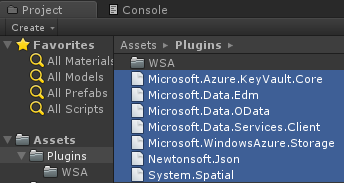
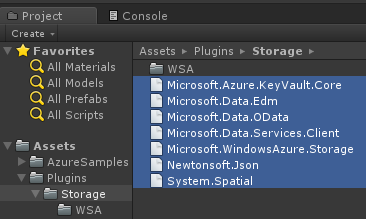
Adding EventHubs and MobileApps SDKs

diff --git a/sandbox/gamedev/unity/azure-event-hubs-unity.md b/sandbox/gamedev/unity/azure-event-hubs-unity.md
@@ -1,0 +1,130 @@
+---
+title: Azure Event Hubs SDK for Unity
+description: Azure Event Hubs SDK for Unity
+author: dgkanatsios
+keywords: unity, azure, eventhubs
+ms.topic: article
+ms.date: 26/11/2017
+ms.author: Dimitris-Ilias Gkanatsios
+#ms.devlang: 
+#ms.prod:
+#ms.technology:
+#ms.service:
+---
+# Azure Event Hubs SDK for Unity
+
+[!include[](../../includes/header.md)]
+
+> [!IMPORTANT]
+> This is an experimental Unity SDK for Azure Event Hubs.  As such, please note that this SDK is not supported and is not provided by the Azure Event Hubs team.  If you run into problems, please let us know using the [GitHub Issues](https://github.com/BrianPeek/AzureSamples-Unity) page for this fork.
+
+[![Get the source](../../media/buttons/source2.png)](https://github.com/Azure/azure-event-hubs-dotnet)
+[![Try it now](../../media/buttons/try2.png)](https://aka.ms/azeventhubs-unitysdk)
+
+## Azure Event Hubs for Gaming
+
+Azure Event Hubs is a real-time custom event ingestion service that can collect and store millions of events per second. Events can then be analyzed in real-time using [Azure Stream Analytics](https://azure.microsoft.com/en-us/services/stream-analytics/) or stored to [Azure Storage](https://azure.microsoft.com/en-us/services/storage/) or [Azure Data Lake Store](https://azure.microsoft.com/en-us/services/data-lake-store/) for processing at a later time. Analysis of this data could reveal various insights about player's performance/behavior during the game as well as be utilized in creation of other types of metrics (e.g. daily/weekly/monthly active users, churn, user sessions, transactions etc.).
+
+## Requirements
+
+* [Unity 2017.1 (or greater)](https://unity3d.com/)
+  * Unity 2017.1 includes a new scripting runtime that supports .NET 4.6.  This feature allows us to use the existing Azure SDKs with some tweaks.  Please see [this blog post from Unity](https://blogs.unity3d.com/2017/07/11/introducing-unity-2017/) for more information.
+* [An Azure Event Hubs account (Sign up for free!)](https://aka.ms/azfreegamedev)
+
+## Compatibility
+
+This has been tested with the following Unity exporters.  Others may work -- we haven't tested every platform, so please let us know if you've had success!
+
+* Windows Standalone
+* Mac Standalone (with Unity 2017.2.0p3)
+* Android (Mono)
+* Unity Editor
+* iOS (the `link.xml` file in the `Assets` sample folder works around an IL2CPP issue dealing with [bytecode stripping](https://docs.unity3d.com/Manual/IL2CPP-BytecodeStripping.html))
+
+## Known Issues and Limitations
+
+There are a few known issues and workarounds.
+
+### Unity and SSL support
+
+> [!WARNING]
+> Due to a Unity limitation, HTTPS requests using the standard .NET networking stack (i.e. not using UnityWebRequest) will fail due to Mono's empty certificate store. To workaround this, you will need to modify the **ServicePointManager.CertificatePolicy** with a custom CertificatePolicy which will accept all certificates as shown.
+>
+>**This means that data transfer will happen in an insecure manner.**
+
+```csharp
+    public class CustomCertificatePolicy : ICertificatePolicy
+    {
+        public bool CheckValidationResult(ServicePoint sp,
+            X509Certificate certificate, WebRequest request, int error)
+        {
+            return true;
+        }
+    }
+
+    //...
+
+    ServicePointManager.CertificatePolicy = new CustomCertificatePolicy();
+```
+
+### iOS Builds
+
+If you hit the [known issue](https://issuetracker.unity3d.com/issues/ios-il2cpp-il2cpp-error-for-method-system-dot-void-system-dot-data-dot-constraintcollection-clear-crashes-whiled-building-for-ios) where Unity iOS exports fail with an error of:
+
+```text
+IL2CPP error for method 'System.Void System.Data.ConstraintCollection::Clear()'
+```
+
+...please update to Unity 2017.3, 2017.2.0p2, or 2017.1.1p2 (or higher).
+
+[!include[](include/uwp-known-issues.md)]
+
+### Other Platforms
+
+We have not had success in compiling or running games using the following platforms:
+
+* Android (IL2CPP)
+* WebGL - System.Threading is used in Event Hubs DLLs and Unity WebGL does not support this
+
+We will continue working on these and update the documentation as soon as we find fixes.
+
+## Import the SDK
+
+To import the SDK into your own project, make sure you have downloaded the latest [.unitypackage](https://aka.ms/azeventhubs-unitysdk) from GitHub.  Then, do the following:
+
+[!include[](include/unity-import.md)]
+
+Please refer to the [Azure Event Hubs Docs](https://docs.microsoft.com/en-us/azure/event-hubs/) for even more samples and tutorials on using the API.
+
+## Try the Sample
+
+To use the sample, you will need to have an Azure Event Hubs account with a valid Event Hubs connection string. You'll also need to create an event hub on this account. You can check the Event Hubs documentation [here](https://docs.microsoft.com/en-us/azure/event-hubs/event-hubs-create) to understand how to complete this task.
+
+To use the sample, do the following:
+
+1. Download the [Unity sample project](https://github.com/BrianPeek/AzureSamples-Unity) from GitHub (or import it from the .unitypackage and continue to step 4).
+
+1. Unzip to a location on your hard drive.
+
+1. Open Unity 2017.1 (or greater) and point it to the **EventHubs** directory inside the unzipped package.
+
+1. In the **Project** window, double-click the **EventHub** scene inside the **Sample** directory to open the main scene for the sample.
+
+1. In this scene, select the **EventHubsObject** item in the **Hierarchy** window.
+
+1. With **EventHubsObject** selected, you'll notice that there are two blank entries in the **Inspector** window, called **Eh Connection String** and **Eh Entity Path**. Fill in these entries with your own Event Hubs connection string and Event Hub name, respectively. You can find them both in the Azure Portal as shown below.
+
+   ![Event Hubs connection string in Azure Portal](../media/event-hubs-connectionstring.png)
+
+   ![Creating an Event Hub in Azure Portal](../media/event-hubs-name.png)
+
+1. Run the project from within the Unity Editor by clicking the **Play** button.  Alternatively, you can export to the platform of your choosing and run there.
+
+1. To test that the events you are sending are correctly arriving to your Event Hubs account, you can use [Event Hubs capture](https://docs.microsoft.com/en-us/azure/event-hubs/event-hubs-capture-enable-through-portal) and monitor your Storage/Data Lake Store account. Alternatively, you can create a simple .NET console app with a class that implements the **IEventProcessor** interface, like the one described [here](https://docs.microsoft.com/en-us/azure/event-hubs/event-hubs-dotnet-standard-getstarted-receive-eph).
+
+## Next Steps
+
+* [Azure Event Hubs Docs](https://docs.microsoft.com/en-us/azure/event-hubs/)
+* [Event Hubs as input to Azure Stream Analytics](https://docs.microsoft.com/en-us/azure/stream-analytics/stream-analytics-define-inputs)
+* [Capture Event Hubs data to Azure Storage or Azure Data Lake Store](https://docs.microsoft.com/en-us/azure/event-hubs/event-hubs-capture-enable-through-portal)
+* [Azure Data Lake Store documentation](https://docs.microsoft.com/en-us/azure/data-lake-store/)

diff --git a/sandbox/gamedev/unity/azure-mobile-apps-unity.md b/sandbox/gamedev/unity/azure-mobile-apps-unity.md
@@ -1,0 +1,105 @@
+---
+title: Azure Mobile Apps SDK for Unity
+description: Azure Mobile Apps SDK for Unity
+author: BrianPeek
+manager: timheuer
+keywords: unity, azure, Mobile Apps
+ms.topic: article
+ms.date: 11/29/2017
+ms.author: brpeek
+#ms.devlang: 
+#ms.prod:
+#ms.technology:
+#ms.service:
+---
+# Azure Mobile Apps SDK for Unity
+
+[!include[](../../includes/header.md)]
+
+> [!IMPORTANT]
+> This is an experimental Unity SDK for Azure Mobile Apps.  As such, please note that this SDK is not supported and is not provided by the Azure Mobile Apps team.  If you run into problems, please let us know using the [GitHub Issues](https://github.com/BrianPeek/AzureSamples-Unity/issues) page for this fork.
+
+[![Get the source](../../media/buttons/source2.png)](https://github.com/BrianPeek/AzureSamples-Unity)
+[![Try it now](../../media/buttons/try2.png)](https://aka.ms/azmobile-unitysdk)
+
+## Azure Mobile Apps for Gaming
+
+[Azure Mobile Apps](https://docs.microsoft.com/azure/app-service-mobile/) contains a variety of features for building cross-platform mobile titles.  This SDK currently supports working with Easy Tables.  [Easy Tables](https://docs.microsoft.com/azure/app-service-mobile/app-service-mobile-dotnet-how-to-use-client-library) are a great way to read, write, and query data in a simple table format.  While more features exist in the service, they are not yet supported by this SDK, but will be evaluated for future releases.
+
+## Requirements
+
+* [Unity 2017.1 (or greater)](https://unity3d.com/)
+  * Unity 2017.1 includes a new scripting runtime that supports .NET 4.6.  This feature allows us to use the existing Azure SDKs with some tweaks.  Please see [this blog post from Unity](https://blogs.unity3d.com/2017/07/11/introducing-unity-2017/) for more information.
+* [An Azure Mobile Apps account (Sign up for free!)](https://aka.ms/azfreegamedev)
+
+## Compatibility
+
+This has been tested with the following Unity exporters.  Others may work -- we haven't tested every platform, so please let us know if you've had success!
+
+* Windows standalone
+* iOS
+* Android (Mono)
+* Unity editor
+
+## Known Issues and Limitations
+
+There are a few known issues and workarounds.
+
+### Unity and SSL support
+
+Due to a Unity limitation, HTTPS requests using the standard .NET networking stack (i.e. not using UnityWebRequest) will fail.  To workaround this, you will need to use the **http** version of the Mobile Apps endpoint instead of **https**.  **This means your data will not be encrypted to and from the server.**  Here's an example:
+
+```text
+http://mymobileapp.azurewebsites.net/
+```
+
+[!include[](include/uwp-known-issues.md)]
+
+### Other Platforms
+
+We have not had success in compiling or running games using the following platforms:
+
+* Android (IL2CPP)
+* UWP (.NET)
+* UWP (IL2CPP)
+* WebGL
+
+We will continue working on these and update as we find fixes.
+
+## Import the SDK
+
+To import the SDK into your own project, make sure you have downloaded the latest [.unitypackage](https://aka.ms/azmobile-unitysdk) from GitHub.  Then, do the following:
+
+<!--[!include[](include/unity-import.md)]-->
+
+Please refer to the [Azure Mobile Apps Docs](https://aka.ms/azgamedev) for even more samples and tutorials on using the API.
+
+## Try the Sample
+
+To use the sample, you will need to have an Azure Mobile Apps account setup along with a valid connection string.  You can learn more about that [here](https://docs.microsoft.com/en-us/azure/MobileApps/common/MobileApps-create-MobileApps-account).
+
+To use the sample, do the following:
+
+1. Download the [Unity sample project](https://github.com/BrianPeek/AzureSamples-Unity) from GitHub (or import it from the .unitypackage and continue to step 4).
+
+1. Unzip to a location on your hard drive.
+
+1. Open Unity 2017.1 (or greater) and point it to the **MobileApps** directory inside the unzipped package.
+
+1. In the **Project** window, double-click the **AzureMobileApps** scene inside the **Assets\AzureSamples\MobileApps** directory to open the main scene for the sample.
+
+1. In this scene, select the **MobileAppsObject** item in the **Hierarchy** window.
+
+1. With **MobileAppsObject** selected, you'll notice that there is a blank entry named **Mobile App Uri** in the **Inspector** window.  Fill in this entry with the valid URI as shown on the Azure portal, but remember to change the endpoint to use **http** as described above.  The URI will be **http://&lt;yourAppName&gt;.azurewebsites.net/**.
+
+   ![Azure Mobile Apps Keys in Azure Porta](../media/mobile-apps-uri.png)
+
+1. Run the project from within the editor by clicking the **Play** button.  Alternatively, you can export to the platform of your choosing and run there.
+
+1. At this point, you can click the button for any of the four Mobile Apps types and watch the output window.  If things are setup and working, you will see the sample test a standard workflow.
+
+The code for the sample is broken out into four separate scripts, one for each Mobile Apps type.  Take a look at each to learn more about how it works.
+
+## Next Steps
+
+* [Azure Mobile Apps Docs](https://aka.ms/azMobileAppsdocsgamedev)

diff --git a/sandbox/gamedev/unity/azure-storage-unity.md b/sandbox/gamedev/unity/azure-storage-unity.md
@@ -20,7 +20,7 @@ ms.author: brpeek
 > This is an experimental Unity SDK for Azure Storage.  As such, please note that this SDK is not supported and is not provided by the Azure Storage team.  If you run into problems, please let us know using the [GitHub Issues](https://github.com/BrianPeek/azure-storage-net/issues) page for this fork.
 
 [![Get the source](../../media/buttons/source2.png)](https://github.com/BrianPeek/azure-storage-net/tree/gamedev)
-[![Try it now](../../media/buttons/try2.png)](https://github.com/BrianPeek/azure-storage-net/releases)
+[![Try it now](../../media/buttons/try2.png)](https://aka.ms/azstorage-unitysdk)
 
 ## Requirements
 
@@ -30,7 +30,7 @@ ms.author: brpeek
 
 ## Compatibility
 
-This has been tested with the following Unity exporters.  Others may work, and we haven't tested every platform, so please let us know if you've had success!
+This has been tested with the following Unity exporters.  Others may work -- we haven't tested every platform, so please let us know if you've had success!
 
 * Windows standalone
 * UWP (.NET)
@@ -50,31 +50,7 @@ Due to a Unity limitation, HTTPS requests using the standard .NET networking sta
 DefaultEndpointsProtocol=http;AccountName=yourazureaccount;AccountKey=abcdef12345;EndpointSuffix=core.windows.net
 ```
 
-### iOS Builds
-
-There is a [known issue](https://issuetracker.unity3d.com/issues/ios-il2cpp-il2cpp-error-for-method-system-dot-void-system-dot-data-dot-constraintcollection-clear-crashes-whiled-building-for-ios) with Unity 2017.2 (and perhaps other versions) where iOS exports may fail with an error of:
-
-```text
-IL2CPP error for method 'System.Void System.Data.ConstraintCollection::Clear()'
-```
-
-This error isn't unique to this SDK.  We have not seen this error with the latest builds of 2017.1 or 2017.3, so you may wish to up/downgrade if you run into it until there is a proper patch from Unity.
-
-### UWP Builds
-
-To build for UWP, ensure that the the DLLs in the root Plugins directory are excluded from the build, while the DLLs in the WSA directory are included in the build.  To do this:
-
-1. In the **Project** window, select all DLLs that are in the **Plugins** directory.
-
-   ![Select all DLLs](media/unity-select-dlls.png)
-   
-1. In the Inspector window at the right, make sure only **WSAPlayer** is selected and **Any Platform** is not selected.
-
-   ![Include only WSAPlayer](media/unity-wsaplayer-include.png)
-
-With these selections, you should be able to export your UWP build without issue.  To go back to building for another platform, reverse the process -- make sure both **Any Platform** and **WSAPlayer** are selected and then export.
-
-![Exclude only WSAPlayer](media/unity-wsaplayer-exclude.png)
+[!include[](include/uwp-known-issues.md)]
 
 ### Other Platforms
 
@@ -88,21 +64,11 @@ We will continue working on these and update as we find fixes.
 
 ## Import the SDK
 
-1. Download the latest [.unitypackage](https://github.com/BrianPeek/azure-storage-net/releases) from GitHub.
+To import the SDK into your own project, make sure you have downloaded the latest [.unitypackage](https://aka.ms/azstorage-unitysdk) from GitHub.  Then, do the following:
 
-1. Open Unity and select **Edit > Project Settings > Player** to open the **PlayerSettings** panel.
+[!include[](include/unity-import.md)]
 
-1. Select **Experimental (.NET 4.6 Equivalent)** from the **Scripting Runtime Version** dropdown in the **Configuration** section.
-
-   ![Scripting Configuration dialog](media/unity-player-config.png)
-
-1. Add the .unitypackage you downloaded in the first step to Unity by using the **Assets > Import Package > Custom Package** menu option.
-
-1. In the **Import Unity Package** box that pops up, you can select which things you'd like to import.  By default everything will be selected.  If you don't care to use the sample, you can uncheck that box.
-
-1. Click the **Import** button to add the items to your project.
-
-With the package added, you can now use the Azure Storage SDK API in your scripts as you would in any other application.  Please take a look at the [sample](https://github.com/BrianPeek/AzureSamples-Unity) (also included in the .unitypackage) which demonstrates how to use each of the storage services to perform simple tasks. Also, please refer to the [Azure Storage Docs](https://aka.ms/azstoragedocsgamedev) for even more samples and tutorials on using the API.
+Please refer to the [Azure Storage Docs](https://aka.ms/azstoragedocsgamedev) for even more samples and tutorials on using the API.
 
 ## Try the Sample
 
@@ -116,7 +82,7 @@ To use the sample, do the following:
 
 1. Open Unity 2017.1 (or greater) and point it to the **Storage** directory inside the unzipped package.
 
-1. In the **Project** window, double-click the **AzureSample** scene inside the **Sample** directory to open the main scene for the sample.
+1. In the **Project** window, double-click the **AzureSample** scene inside the **AzureSamples\Storage** directory to open the main scene for the sample.
 
 1. In this scene, select the **StorageObject** item in the **Hierarchy** window.
 

diff --git a/sandbox/gamedev/unity/include/uwp-known-issues.md b/sandbox/gamedev/unity/include/uwp-known-issues.md
@@ -1,0 +1,19 @@
+### UWP Builds
+
+To build for UWP, ensure that the the DLLs in the root Plugins directory are excluded from the build, while the DLLs in the WSA directory are included in the build.  To do this:
+
+1. In the **Project** window, select all DLLs that are in the root **Plugins\\&lt;SDK&gt;** directory (note that the DLLs and SDK directory name will vary based on the SDK).
+
+   ![Select all DLLs](../media/unity-select-dlls.png)
+
+1. In the Inspector window at the right, make sure both **Any Platform** and **WSAPlayer** are not selected.
+
+   ![Exclude only WSAPlayer](../media/unity-wsaplayer-exclude.png)
+
+1. In the **Project** window, select all DLLs that are in the root **Plugins\\&lt;SDK&gt;\\WSA** directory (note that the DLLs and SDK directory name will vary based on the SDK).
+
+1. In the Inspector window at the right, make sure **Any Platform** is not selected and **WSAPlayer** is selected.
+
+   ![Include only WSAPlayer](../media/unity-wsaplayer-include.png)
+
+With these selections, you should be able to export your UWP build without issue.  To go back to building for another platform, reverse the process -- make sure both **Any Platform** and **WSAPlayer** are selected and then export.

diff --git a/sandbox/gamedev/unity/include/unity-import.md b/sandbox/gamedev/unity/include/unity-import.md
@@ -1,0 +1,13 @@
+1. Open Unity and select **Edit > Project Settings > Player** to open the **PlayerSettings** panel.
+
+1. Select **Experimental (.NET 4.6 Equivalent)** from the **Scripting Runtime Version** dropdown in the **Configuration** section.
+
+   ![Scripting Configuration dialog](../media/unity-player-config.png)
+
+1. Add the .unitypackage you downloaded in the first step to Unity by using the **Assets > Import Package > Custom Package** menu option.
+
+1. In the **Import Unity Package** box that pops up, you can select which things you'd like to import.  By default everything will be selected.  If you don't care to use the sample, you can uncheck that box.
+
+1. Click the **Import** button to add the items to your project.
+
+With the package added, you can now use the normal API in your scripts as you would in any other application.  Please take a look at the [sample](https://github.com/BrianPeek/AzureSamples-Unity) (also included in the .unitypackage) which demonstrates how to use each of the storage services to perform simple tasks. 
